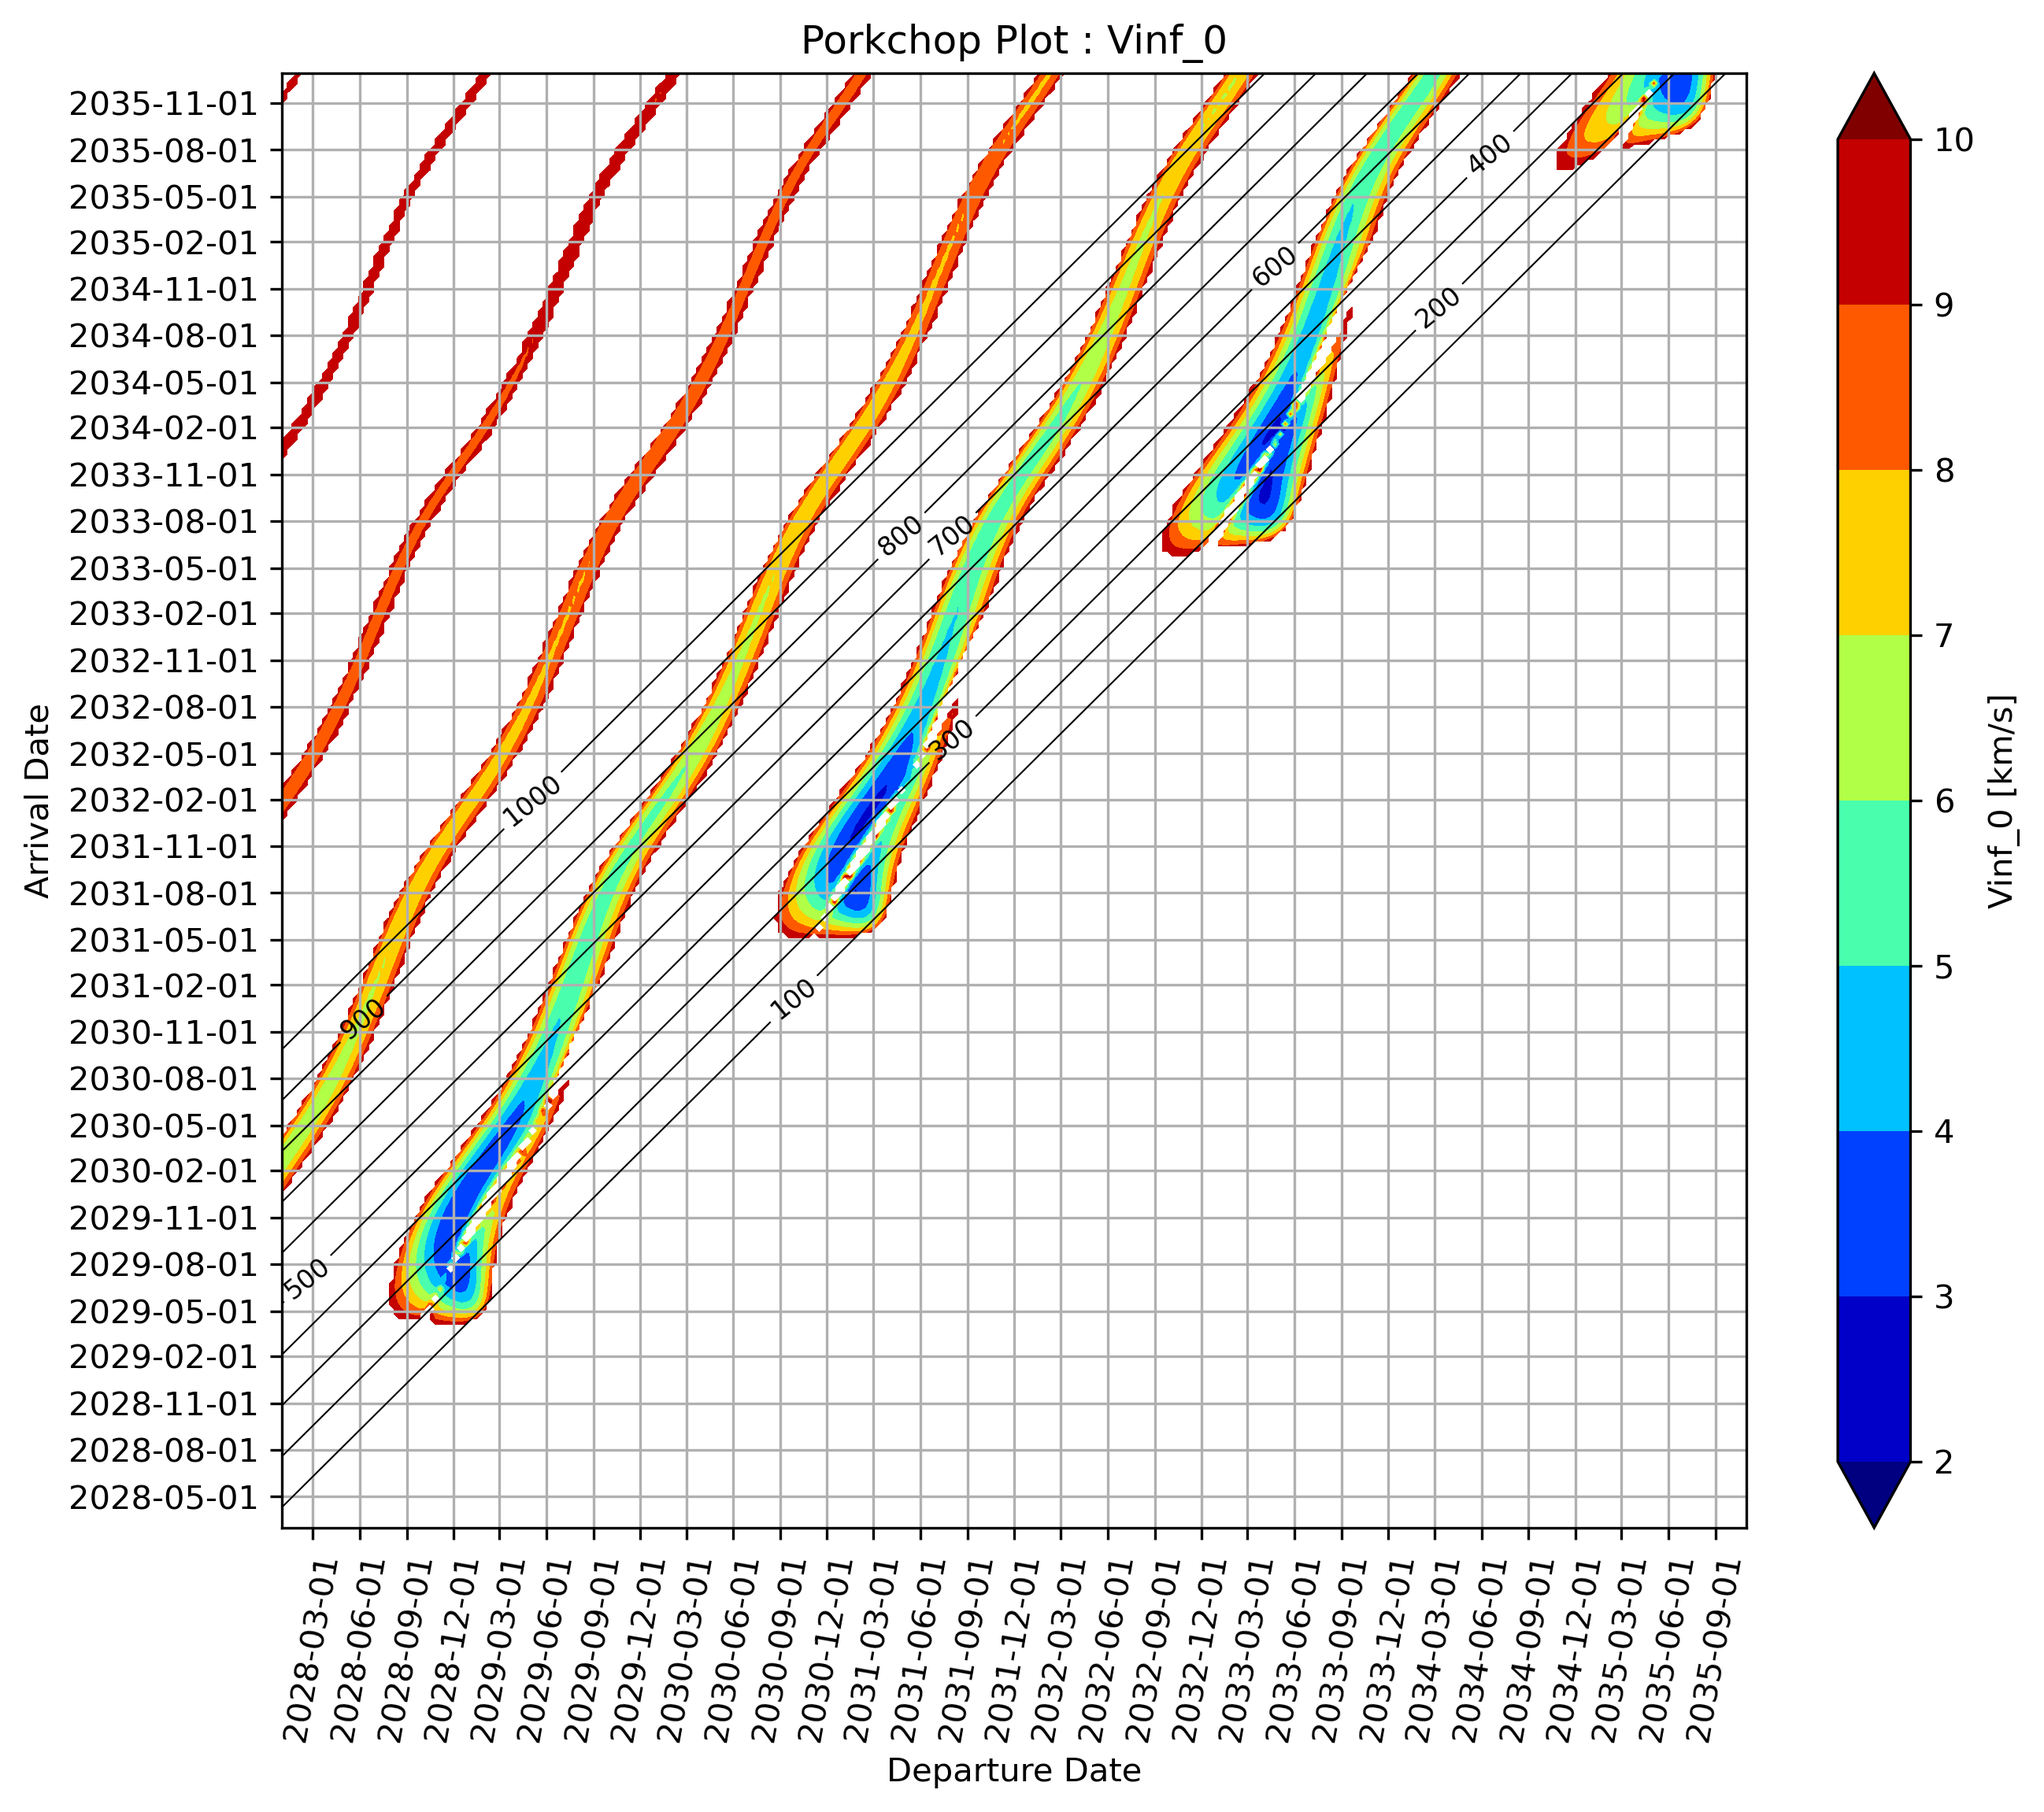
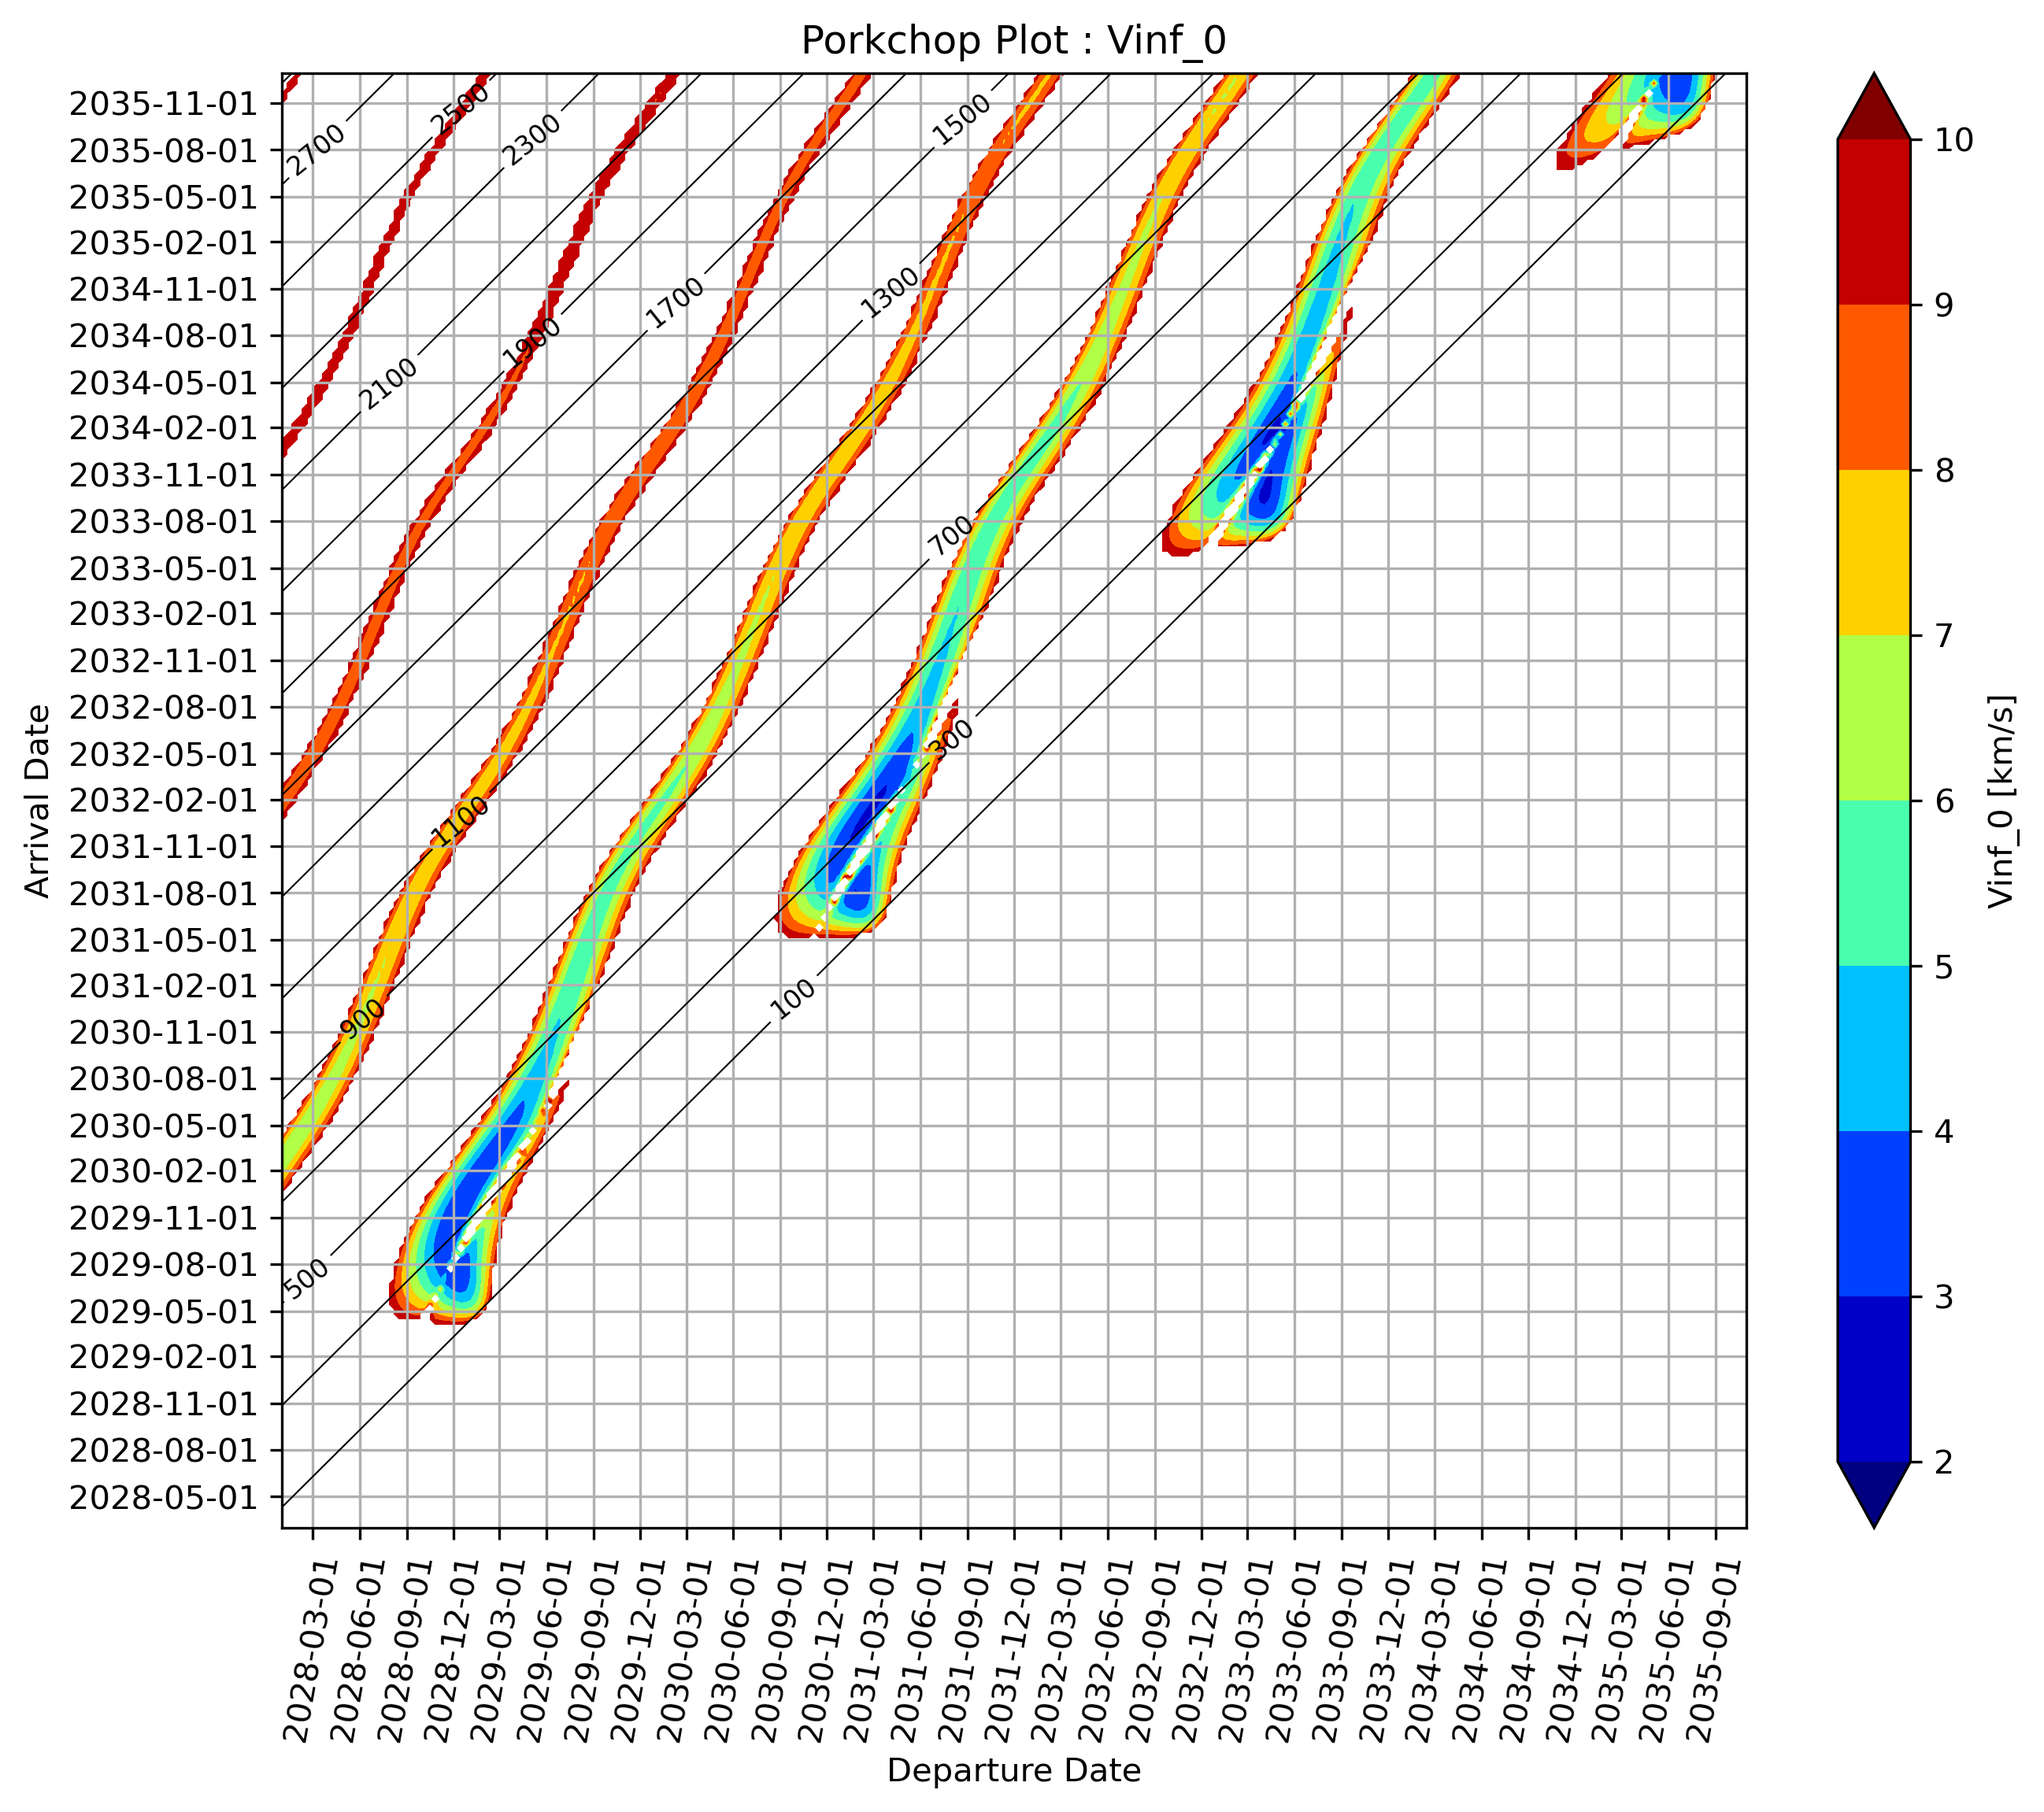
0429_0130

diff --git a/trajectory.py b/trajectory.py
@@ -1,0 +1,105 @@
+import numpy as np
+import matplotlib.pyplot as plt
+from mpl_toolkits.mplot3d import Axes3D
+import pykep as pk
+from pykep.planet import jpl_lp
+from astropy.time import Time
+
+# ----------------------
+# 1. 出発日・到着日（ユリウス日）
+# ----------------------
+# 出発日と到着日を定義
+# 出発日・到着日
+launch_epoch = pk.epoch_from_string('2030-12-16 00:00:00')
+arrival_epoch = pk.epoch_from_string('2031-09-23 00:00:00')
+
+TOF_sec = (arrival_epoch.mjd2000 - launch_epoch.mjd2000) * 86400  # [秒]
+
+
+
+# ----------------------
+# 2. 惑星データの取得
+# ----------------------
+earth = jpl_lp('earth')
+mars = jpl_lp('mars')
+
+r1, v1 = earth.eph(launch_epoch)
+r2, v2 = mars.eph(arrival_epoch)
+mu_sun = pk.MU_SUN  # [km^3/s^2]
+
+# ----------------------
+# 3. ランベール問題を解く
+# ----------------------
+lambert_solutions = pk.lambert_problem(r1, r2, TOF_sec, mu_sun)
+v1_departure = lambert_solutions.get_v1()[0]
+v2_arrival = lambert_solutions.get_v2()[0]
+
+# ----------------------
+# 4. 軌道を積分する（宇宙機）
+# ----------------------
+num_points = 1000
+times = np.linspace(0, TOF_sec, num_points)
+r_sc = []
+
+for t in times:
+    M = np.linalg.norm(v1_departure)**2/2 - mu_sun/np.linalg.norm(r1)
+    a = -mu_sun/(2*M)
+    r, _ = pk.propagate_lagrangian(r1, v1_departure, t, mu_sun)
+    r_sc.append(r)
+
+r_sc = np.array(r_sc)
+
+# ----------------------
+# 5. 地球と火星の軌道を描画
+# ----------------------
+# 周回軌道をサンプリング
+theta = np.linspace(0, 2*np.pi, num_points)
+
+# 地球軌道（円軌道近似）
+r_earth_orbit = []
+for angle in theta:
+    r, _ = earth.eph(launch_epoch + (angle/(2*np.pi))*365.25)
+    r_earth_orbit.append(r)
+r_earth_orbit = np.array(r_earth_orbit)
+
+# 火星軌道（円軌道近似）
+r_mars_orbit = []
+for angle in theta:
+    r, _ = mars.eph(launch_epoch + (angle/(2*np.pi))*686.98)
+    r_mars_orbit.append(r)
+r_mars_orbit = np.array(r_mars_orbit)
+
+# ----------------------
+# 6. 3Dプロット
+# ----------------------
+fig = plt.figure(figsize=(10, 8))
+ax = fig.add_subplot(111, projection='3d')
+
+# 太陽描画
+ax.scatter(0, 0, 0, color='yellow', s=100, label='Sun')
+
+# 地球軌道
+ax.plot(r_earth_orbit[:,0], r_earth_orbit[:,1], r_earth_orbit[:,2], 'b', label='Earth Orbit')
+# 火星軌道
+ax.plot(r_mars_orbit[:,0], r_mars_orbit[:,1], r_mars_orbit[:,2], 'r', label='Mars Orbit')
+# 宇宙機遷移軌道
+ax.plot(r_sc[:,0], r_sc[:,1], r_sc[:,2], 'g', label='Spacecraft Trajectory')
+
+# 地球出発点
+ax.scatter(r1[0], r1[1], r1[2], color='blue', s=50, label='Earth Departure')
+# 火星到着点
+ax.scatter(r2[0], r2[1], r2[2], color='red', s=50, label='Mars Arrival')
+
+ax.set_xlabel('X [km]')
+ax.set_ylabel('Y [km]')
+ax.set_zlabel('Z [km]')
+ax.set_title('Earth-Mars Transfer (Lambert Solution)')
+ax.legend()
+ax.grid(True)
+ax.set_box_aspect([1,1,1])  # aspect ratioを1:1:1に
+
+# 保存（オプション）
+plt.savefig("trj1.png", dpi=300, bbox_inches='tight')
+
+# 表示
+plt.show(block=True)

diff --git a/find_min.py b/find_min.py
@@ -1,0 +1,24 @@
+import numpy as np
+
+# データを読み込む（nanを正しく読み取る）
+data = np.loadtxt('result_f2.txt')
+
+# 7列目（インデックス6）のデータを取り出す
+col7 = data[:, 6]
+
+# NaNを除外して最小値を探す
+valid_indices = ~np.isnan(col7)  # NaNでない場所だけTrue
+col7_valid = col7[valid_indices]
+
+# 最小値のインデックスを探す
+min_index_valid = np.argmin(col7_valid)
+
+# 元のdataに対応するインデックスに直す
+valid_rows = np.where(valid_indices)[0]
+min_row_index = valid_rows[min_index_valid]
+
+# 最小値を持つ行を取得
+min_row = data[min_row_index]
+
+print("7列目が最小の行：")
+print(min_row)

diff --git a/plotwide.py b/plotwide.py
@@ -47,7 +47,7 @@ Dep_grid_dates, Arr_grid_dates = np.meshgrid(dep_dates, arr_dates)
 levels_vinf1 = [2, 3, 4, 5, 6, 7, 8, 9, 10]
 levels_vinf2 = [2, 3, 4, 5, 6, 7, 8, 9, 10]
 levels_DV = [7, 8, 9, 10, 11, 12, 13, 14, 15, 16, 17]
-levels_TOF = [100, 200, 300, 400, 500, 600, 700, 800, 900, 1000]
+levels_TOF = [100, 300, 500, 700, 900, 1100, 1300, 1500, 1700, 1900, 2100, 2300, 2500, 2700, 2900, 3100]
 
 # 等高線の描画関数
 def plot_contours(grid, levels, title, filename, colorbar_label, cmap='jet'):
